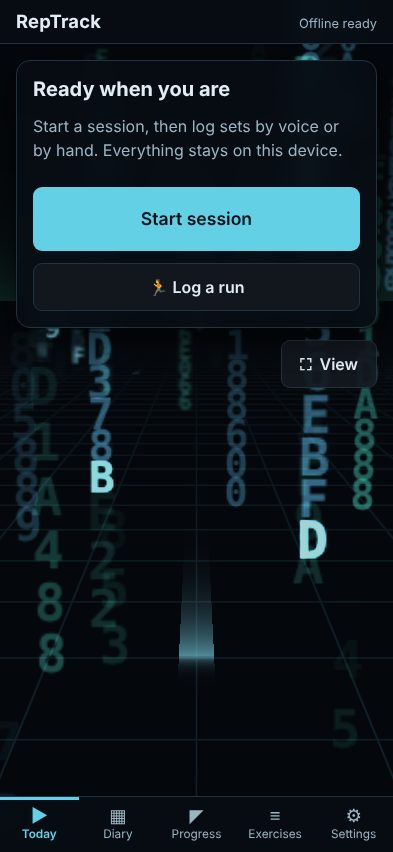
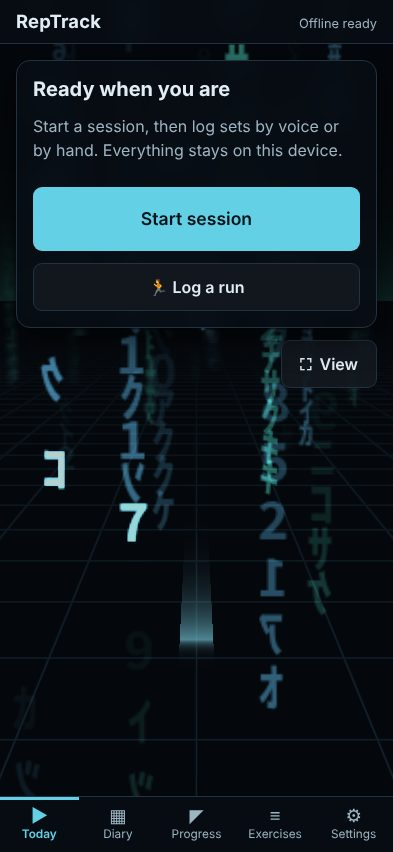
Screenshots and docs for the Kemet base, Forge turntable and Terminal katakana; SW cache v6
Claude-Session: https://claude.ai/code/session_01CYDVdR3vLihRKRwozUR3TD

diff --git a/sw.js b/sw.js
@@ -3,7 +3,7 @@
  * in the background. The app never talks to a network at runtime, so a cache
  * miss only ever happens for a file we forgot to list in PRECACHE.
  */
-const CACHE = 'reptrack-shell-v5';
+const CACHE = 'reptrack-shell-v6';
 
 const PRECACHE = [
   './',

diff --git a/VISUALS.md b/VISUALS.md
@@ -106,6 +106,27 @@ columns happen to be, which is why those numbers are averaged.)
 
 ---
 
+## Kemet base, Forge turntable, Terminal katakana
+
+**Kemet's base.** The pyramid used to be hollow underneath (left). It now has a solid, lit
+stone base engraved with `RepTrack © ArtyG-Dev` in gold with a cyan glow, reading correctly
+(not mirrored) when you turn the pyramid to look up at it (right). It never shows in the
+default view.
+
+<img src="docs/screenshots/kemet-base-before.jpg" width="150" alt="Before: looking up into the hollow pyramid"> <img src="docs/screenshots/kemet-base-underside.jpg" width="150" alt="After: the solid base with the RepTrack © ArtyG-Dev inscription">
+
+**Forge spins on a turntable, the opposite way to Kemet.** These are two frames about 1 s
+apart at full intensity. Kemet's pyramid turns one way (left pair). Forge's bar stays level
+and swings the other way, from three-quarter view to side-on (right pair).
+
+<img src="docs/screenshots/kemet-spin-a.jpg" width="150" alt="Kemet, first frame"> <img src="docs/screenshots/kemet-spin-b.jpg" width="150" alt="Kemet, about one second later"> <img src="docs/screenshots/forge-spin-a.jpg" width="150" alt="Forge, first frame"> <img src="docs/screenshots/forge-spin-b.jpg" width="150" alt="Forge, about one second later, turned the opposite way">
+
+**Terminal katakana** at intensity 0.5: half-width katakana with the digits kept, and about
+half the glyphs mirrored (left). With katakana unavailable it falls back to the old Latin
+set, unmirrored and with no boxes (right).
+
+<img src="docs/screenshots/terminal-katakana.jpg" width="150" alt="Terminal with half-width katakana, some mirrored"> <img src="docs/screenshots/terminal-latin-fallback.jpg" width="150" alt="Terminal falling back to Latin when katakana cannot be drawn">
+
 ## What the tests prove from real pixels
 
 Screenshots show what it looks like. These assertions show it is true every time, and they
@@ -125,6 +146,9 @@ run on every `npm test` (`tests/visuals.test.js`, plus the pixel tests in
 | WebGL2 unavailable → the old 2D skins, never blank | `webgl2` forced unavailable: the 2D renderer animates and the frame is not blank |
 | Context loss recovers | `WEBGL_lose_context` hands over to 2D (still animating), and restore brings the 3D scene back |
 | Drag turns both 3D scenes visibly | One shared orbit. A drag changes >2% of the frame; right moves the near side right; up tilts the near end up and the far end down. It holds while dragging, eases back after release, and stays put under reduced motion |
+| Kemet base | From below, the base faces the camera; the inscription runs left to right, upright and centred; the base is solid; it is hidden in the default view |
+| Forge turntable | Over ~1 s of scene time Kemet's heading rises and Forge's falls, Forge stays under the cap, and the bar's end stays at world height 0 as it swings round |
+| Terminal katakana | Katakana where a font draws them, Latin when it is forced unavailable, and a mirror split of about 50% fixed per glyph lifetime |
 | Forge plates | Plates per level match the table (Today and full screen), the bar ends never clip, plate colours stay > 60 RGB apart at heat 0 and 1, slide-on and fade-off are seen mid-animation, and a level gained between visits replays once |
 | Full-screen view | Focus moves in and returns to **View**; Esc, ✕ and browser back all close it (back stays in the app); a fixed overlay covers the viewport without the Fullscreen API; drag rotates Kemet/Forge, holds auto-rotation and resumes it on release |
 

diff --git a/ACCEPTANCE.md b/ACCEPTANCE.md
@@ -272,6 +272,22 @@ Per `docs/FOLLOWUP_PROMPT_FORGE_ROTATE_PLATES.md`.
 | 120 | Pushed, cache bumped, live re-verified | Live files byte-identical to `9f37261`; SW `/reptrack/` with `reptrack-shell-v5`; on the live site a Forge drag changes 4.85% of the frame (0.11% before the fix); plates correct; no console errors. `DEPLOYMENT.md` → "Live verification" | ✅ |
 | 121 | `MANUAL_TEST.md` on-phone check for Forge drag and plate count | Check 2 → "Forge, specifically", with the plate table to compare against | ✅ |
 
+## Added after the Kemet base / Forge turntable / Terminal katakana update
+
+Per `docs/FOLLOWUP_PROMPT_KEMET_BASE_FORGE_SPIN_TERMINAL_KATAKANA.md`. Each change committed separately.
+
+| # | Criterion | How it is verified | Status |
+|---|---|---|---|
+| 122 | Kemet: cause documented; base solid and lit; inscription legible, not mirrored, from below; no edge gaps | `DECISIONS.md` #83 (base never in the mesh; culling never enabled). `visuals.test.js` → "Kemet has a solid base…" (faces camera from below, left→right, upright, centred, solid; hidden by default). The base shares the side faces' corner vertices. `kemet-base-before.jpg` / `kemet-base-underside.jpg` | ✅ |
+| 123 | Forge: default spin about the vertical axis, opposite to Kemet, intensity-scaled and capped; axis and direction in one constant, documented | `FORGE_AUTO_ROTATION = { axis: 'vertical', direction: -1 }` in `theme-engine.js`; `CLAUDE.md` → "Auto-rotation axes" ('tumble' is the one-line switch). `visuals.test.js` → "Forge spins level on a turntable, the opposite way to Kemet" and "reduced motion: Forge does not auto-rotate" | ✅ |
+| 124 | Terminal: katakana replace the letters, ~even mix of mirrored glyphs fixed per glyph, no tofu, Latin fallback works, cached atlas | Half-width katakana (`DECISIONS.md` #85). Two-row atlas drawn once. Every glyph is checked against the tofu box before use. `visuals.test.js` (katakana where drawable, forced fallback → Latin), `theme-engine.test.js` (mirror split ~50%) | ✅ |
+| 125 | Screenshots for all three in `docs/screenshots/` and `VISUALS.md` | `VISUALS.md` → "Kemet base, Forge turntable, Terminal katakana" | ✅ |
+| 126 | CPU re-measured for Kemet, Forge, Terminal | `npm run skins`: app JS +0.9% each, 30 fps, all PASS | ✅ headless / ⚠ device |
+| 127 | Full acceptance suite green | 262 passing | ✅ |
+| 128 | Footprint < 50 MB, no font files | 3.499 MB total; system font stacks only. Noto CJK was installed as an OS package on the test machine for screenshots, not in the repo | ✅ |
+| 129 | Pushed, cache bumped, live re-verified | `reptrack-shell-v6`. See `DEPLOYMENT.md` → "Live verification" | see `DEPLOYMENT.md` |
+| 130 | `MANUAL_TEST.md` on-phone checks for all three | Check 2 → "Three more quick looks" | ✅ |
+
 ## Build constraints
 
 | Constraint | Verification | Status |

diff --git a/MANUAL_TEST.md b/MANUAL_TEST.md
@@ -75,6 +75,18 @@ table, identical on both sides:
 If you levelled up since you last had Forge open, the new plates should slide on once as
 the Today screen appears.
 
+**Three more quick looks (about a minute):**
+
+- **Kemet base:** open Kemet, tap **View**, and drag *upwards* until you are looking at the
+  bottom of the pyramid. It should be solid dark stone with `RepTrack © ArtyG-Dev` engraved
+  in gold, readable, not back to front.
+- **Forge turntable:** open Forge and watch it next to Kemet. The barbell stays level and
+  turns like it's on a turntable, the *opposite* way to the pyramid.
+- **Terminal katakana:** open Terminal. The falling characters should be Japanese katakana
+  mixed with digits, some of them mirrored, and **never empty boxes (□)**. If your phone
+  shows Latin letters A–F instead, it couldn't draw katakana and fell back on purpose. Tell
+  me, because that would be unusual on Android.
+
 ### What to watch for
 
 | Observation | Meaning |

diff --git a/DEPLOYMENT.md b/DEPLOYMENT.md
@@ -75,7 +75,7 @@ Expect the same scores as the local run recorded in `ACCEPTANCE.md`.
 
 ## A note on caching
 
-`sw.js` uses a versioned cache (currently `reptrack-shell-v5`) and deletes older caches on activate.
+`sw.js` uses a versioned cache (currently `reptrack-shell-v6`) and deletes older caches on activate.
 **Bump that version string whenever you change a shipped file**, or returning visitors will
 keep the old shell until their cache is evicted.
 
